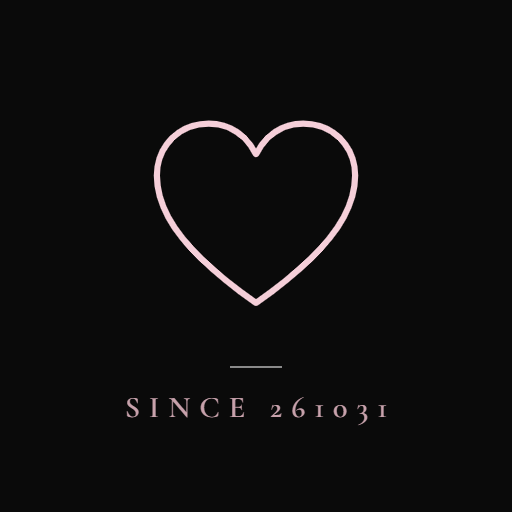
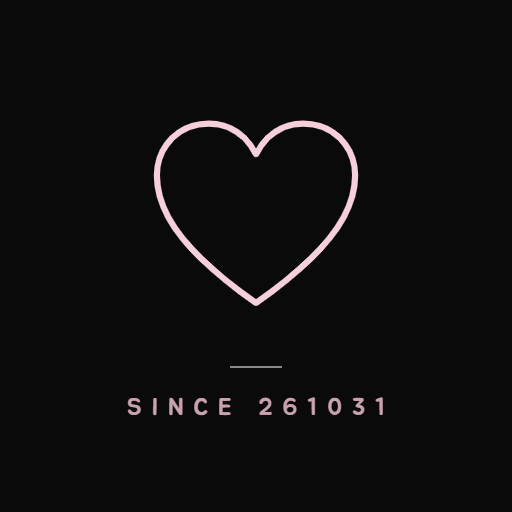
feat: 앱 글꼴을 주아와 고운돋움으로 바꾸기 (#144)
시안 비교에서 고른 B안을 적용한다. 제목, 숫자, 영문 표기, 탭, 주요 버튼은 주아, 본문과 작은 글자는 고운돋움을 쓴다.

두 글꼴 모두 굵기가 하나뿐이라 굵기 클래스를 없애고 font-synthesis: none으로 가짜 굵기를 막는다. 앞으로 굵기 클래스가 들어오지 않게 소스 검사로 고정한다.

SINCE 문구가 들어간 시작 이미지, 링크 미리보기, 앱 아이콘은 하트와 선을 그대로 둔 채 문구만 새 글꼴로 다시 그렸다.

Changed region(s): [[0.5, 0.75, 0.75, 0.8438], [0.25, 0.75, 0.4688, 0.8125]]

diff --git a/src/app/layout.tsx b/src/app/layout.tsx
@@ -1,23 +1,23 @@
 import type { Metadata, Viewport } from "next";
-import { Cormorant_Garamond, Noto_Sans_KR } from "next/font/google";
+import { Gowun_Dodum, Jua } from "next/font/google";
 import { HistoryReturn } from "@/components/HistoryReturn";
 import { OfflineNotice } from "@/components/OfflineNotice";
 import { SaveNotices } from "@/components/SaveNotices";
 import { SessionLostDialog } from "@/components/SessionLostDialog";
 import "./globals.css";
 
-// next/font에 한글 subset이 없어 미리 불러오지 않는다. 브라우저가 필요한 글자 범위만 받는다.
-const notoSansKr = Noto_Sans_KR({
-  weight: "variable",
-  variable: "--font-noto-sans-kr",
+// 본문, 설명, 입력 칸, 작은 글자용. next/font에 한글 subset이 없어 미리 불러오지 않는다. 브라우저가 필요한 글자 범위만 받는다.
+const gowunDodum = Gowun_Dodum({
+  weight: "400",
+  variable: "--font-gowun-dodum",
   preload: false,
 });
 
-// 영문·숫자 표기(SINCE, DAYS, 연·월)용
-const cormorantGaramond = Cormorant_Garamond({
-  weight: ["500", "600"],
+// 제목, 숫자, 영문 표기(SINCE, DAYS, 연·월), 탭, 주요 버튼용. 미리 불러오는 것은 영문·숫자 범위뿐이고 한글은 필요한 범위만 받는다
+const jua = Jua({
+  weight: "400",
   subsets: ["latin"],
-  variable: "--font-cormorant",
+  variable: "--font-jua",
 });
 
 // globals.css의 --color-background와 같은 값. CSS 파일을 받기 전에 쓰는 곳이라 CSS 변수를 쓸 수 없다
@@ -35,7 +35,7 @@ export const metadata: Metadata = {
     // 아이폰은 manifest의 배경색으로 시작 화면을 만들지 않아, 이미지가 없으면 켤 때 하얀 화면이 나온다(#119).
     // 기기 화면과 크기가 정확히 맞아야 쓰이므로 대상 기기마다 하나씩 둔다. 세로로만 쓰는 앱이라 세로 이미지만 둔다.
     // 이미 홈 화면에 추가한 앱은 지우고 다시 추가해야 바뀔 수 있다.
-    // 이미지는 로그인 화면의 로고를 찍은 것이라 ANNIVERSARY_DATE나 로고를 바꾸면 다시 그린다
+    // 이미지는 로그인 화면의 로고를 찍은 것이라 ANNIVERSARY_DATE, 로고, 글꼴을 바꾸면 다시 그린다
     startupImage: [
       {
         url: "/startup/iphone-15-pro.png",
@@ -62,7 +62,7 @@ const RootLayout = ({ children }: LayoutProps<"/">) => (
   // 시작 이미지가 사라진 뒤 CSS가 오기 전에도 흰 화면이 보이지 않게 배경색을 HTML에 직접 넣는다(#121)
   <html
     lang="ko"
-    className={`${notoSansKr.variable} ${cormorantGaramond.variable} h-full antialiased`}
+    className={`${gowunDodum.variable} ${jua.variable} h-full antialiased`}
     style={{ backgroundColor: APP_BACKGROUND_COLOR }}
   >
     <body className="min-h-full bg-background font-sans text-ink">

diff --git a/src/app/typography.test.ts b/src/app/typography.test.ts
@@ -1,0 +1,37 @@
+import { describe, expect, it } from "vitest";
+import { readSource, readSourceLines } from "@/test-utils/source";
+
+// 주아와 고운돋움은 굵기가 하나뿐이다(#134). 굵게 지정하면 브라우저가 획을 두껍게 뭉갠 가짜 굵기를 그린다.
+// Vitest(node)로는 글자 모양을 잴 수 없어 소스 규칙으로 고정한다.
+
+// 루트 레이아웃까지 실패했을 때의 최후의 화면은 웹 글꼴 없이 진짜 굵기가 있는 시스템 글꼴로 그린다(#83)
+const GLOBAL_ERROR = "app/global-error.tsx";
+
+describe("글꼴", () => {
+  it("제목·숫자는 주아, 본문은 고운돋움으로 불러온다", () => {
+    const layout = readSource("app/layout.tsx");
+    const css = readSource("app/globals.css");
+
+    expect(layout).toMatch(/import \{ Gowun_Dodum, Jua \} from "next\/font\/google"/);
+    // html에 변수를 넣지 않으면 글꼴 변수가 정의되지 않아 모든 글자가 시스템 글꼴로 떨어진다
+    expect(layout).toMatch(/className=\{`\$\{gowunDodum\.variable\} \$\{jua\.variable\} /);
+    expect(css).toMatch(/--font-sans: var\(--font-gowun-dodum\)/);
+    expect(css).toMatch(/--font-display: var\(--font-jua\)/);
+  });
+
+  it("브라우저가 가짜 굵기를 만들지 않게 막는다", () => {
+    expect(readSource("app/globals.css")).toMatch(/\bhtml\s*\{[^}]*\bfont-synthesis: none;/);
+  });
+
+  it("화면 코드에 굵기 클래스를 적지 않는다", () => {
+    const weighted = readSourceLines().flatMap(({ at, lines }) =>
+      at === GLOBAL_ERROR
+        ? []
+        : lines.flatMap((line, index) =>
+            /(?<![\w-])font-(?:thin|extralight|light|medium|semibold|bold|extrabold|black|\[\d+\])(?![\w-])|font-weight|fontWeight/.test(line) ? [`${at}:${index + 1}`] : [],
+          ),
+    );
+
+    expect(weighted).toEqual([]);
+  });
+});

diff --git a/src/components/home/CouplePhoto.tsx b/src/components/home/CouplePhoto.tsx
@@ -215,7 +215,7 @@ export const CouplePhoto = ({ photoUrl }: CouplePhotoProps): ReactElement => {
       >
         {isConfirmingClear ? (
           <>
-            <h2 id={titleId} className="text-[17px] font-bold">
+            <h2 id={titleId} className="font-display text-[17px]">
               커플 사진을 지울까요?
             </h2>
             <p id={descriptionId} className="mt-2 text-[14px] leading-[1.6] text-ink-sub">
@@ -241,7 +241,7 @@ export const CouplePhoto = ({ photoUrl }: CouplePhotoProps): ReactElement => {
                 type="button"
                 disabled={task === "clear"}
                 onClick={handleClear}
-                className="h-12 flex-1 rounded-[10px] bg-accent text-[15px] font-bold text-background disabled:opacity-50"
+                className="h-12 flex-1 rounded-[10px] bg-accent font-display text-[15px] text-background disabled:opacity-50"
               >
                 {task === "clear" ? "지우는 중…" : "지우기"}
               </button>
@@ -249,7 +249,7 @@ export const CouplePhoto = ({ photoUrl }: CouplePhotoProps): ReactElement => {
           </>
         ) : (
           <>
-            <h2 id={titleId} className="text-[17px] font-bold">
+            <h2 id={titleId} className="font-display text-[17px]">
               커플 사진
             </h2>
             <div className="mt-4 flex flex-col gap-2">

diff --git a/src/components/home/LatestRecordCard.tsx b/src/components/home/LatestRecordCard.tsx
@@ -17,7 +17,7 @@ export const LatestRecordCard = ({ record }: LatestRecordCardProps): ReactElemen
       {/* 링크 위에 떠 있지만 눌러도 칸을 누른 것으로 친다 */}
       <h2
         id={titleId}
-        className="pointer-events-none absolute top-2.5 left-2.5 z-10 rounded-full bg-background/70 px-[9px] py-[3px] text-[11px] leading-4 text-ink"
+        className="pointer-events-none absolute top-2.5 left-2.5 z-10 rounded-full bg-background/70 px-[9px] py-[3px] font-display text-[11px] leading-4 text-ink"
       >
         최근 데이트
       </h2>
@@ -28,7 +28,7 @@ export const LatestRecordCard = ({ record }: LatestRecordCardProps): ReactElemen
         )}
         {/* 흰 사진 위에서도 두 줄 제목 윗줄까지 글자가 읽히도록(명암비 4.5:1) 글자 높이까지 진하게 깐다 */}
         <span className="absolute inset-x-0 bottom-0 flex flex-col gap-0.5 bg-gradient-to-t from-background/90 via-background/70 via-60% to-transparent px-3 pt-9 pb-3">
-          <span className="line-clamp-2 text-[15px] leading-5 font-bold text-ink">{record.title}</span>
+          <span className="line-clamp-2 font-display text-[15px] leading-5 text-ink">{record.title}</span>
           <span className="truncate text-[12px] leading-4 text-ink/80">
             {formatRecordShortDate(record)}
             {record.place && ` · ${record.place}`}

diff --git a/src/components/home/DdayHeader.tsx b/src/components/home/DdayHeader.tsx
@@ -11,11 +11,11 @@ export const DdayHeader = ({ days }: DdayHeaderProps): ReactElement => (
   <section>
     <h2 className="sr-only">함께한 지 {days}일째</h2>
     <div aria-hidden="true" className="flex items-baseline justify-center gap-3">
-      {/* 숫자는 모양마다 높이가 달라 변하지 않는 글자 아랫선에 맞춘다. 이미지 아래 여백(3.6px)만큼 내려 그려진 선을 맞춘다 */}
+      {/* 글자 아랫선에 맞춘다. 이미지 아래 여백(3.6px)만큼 내려 그려진 선을 맞춘다 */}
       <HeartLogo className="size-[30px] translate-y-[3.6px] text-highlight" strokeWidth={4} />
-      <p className="font-display text-[52px] leading-none font-medium text-highlight">{days}</p>
+      <p className="font-display text-[52px] leading-none text-highlight">{days}</p>
       {/* letter-spacing이 마지막 글자 뒤에도 붙어 가운데가 왼쪽으로 쏠리므로 그만큼 오른쪽 자리를 없앤다 */}
-      <p className="-mr-1 font-display text-[12px] font-semibold tracking-[4px] text-ink-sub">DAYS</p>
+      <p className="-mr-1 font-display text-[12px] tracking-[4px] text-ink-sub">DAYS</p>
     </div>
   </section>
 );

diff --git a/src/components/calendar/CalendarView.tsx b/src/components/calendar/CalendarView.tsx
@@ -63,7 +63,7 @@ export const CalendarView = ({ month, today, requestedDate, events, records }: C
   return (
     <div className="flex flex-col px-4 pb-6">
       <div className="flex items-center justify-between pt-2">
-        <h2 aria-live="polite" className="px-0.5 font-display text-[20px] font-semibold tracking-[3px] text-label">
+        <h2 aria-live="polite" className="px-0.5 font-display text-[20px] tracking-[3px] text-label">
           {formatMonthTitle(month)}
         </h2>
         <div className="-mr-3 flex items-center">
@@ -161,7 +161,7 @@ export const CalendarView = ({ month, today, requestedDate, events, records }: C
       <section aria-labelledby="selected-day" className="mt-4 flex flex-col">
         <div className="flex items-center justify-between">
           <div className="flex flex-col">
-            <h3 id="selected-day" className="text-[15px] font-bold text-ink">
+            <h3 id="selected-day" className="font-display text-[15px] text-ink">
               {formatDayHeading(selectedDate)}
             </h3>
             {selectedDate >= ANNIVERSARY_DATE && (

diff --git a/src/components/dates/DateRecordForm.tsx b/src/components/dates/DateRecordForm.tsx
@@ -404,7 +404,7 @@ export const DateRecordForm = ({ record, prefill }: DateRecordFormProps): ReactE
             <button
               type="button"
               onClick={handleGoToRecords}
-              className="h-[52px] w-full rounded-[10px] bg-accent text-[15px] font-bold text-background"
+              className="h-[52px] w-full rounded-[10px] bg-accent font-display text-[15px] text-background"
             >
               기록 목록으로
             </button>
@@ -412,7 +412,7 @@ export const DateRecordForm = ({ record, prefill }: DateRecordFormProps): ReactE
             <button
               type="submit"
               disabled={isSaving}
-              className="h-[52px] w-full rounded-[10px] bg-accent text-[15px] font-bold text-background disabled:opacity-50"
+              className="h-[52px] w-full rounded-[10px] bg-accent font-display text-[15px] text-background disabled:opacity-50"
             >
               {progress ? toProgressLabel(progress) : isSaving ? "저장 중…" : "저장"}
             </button>

diff --git a/src/components/SessionLostDialog.tsx b/src/components/SessionLostDialog.tsx
@@ -94,7 +94,7 @@ const SessionLostForm = ({ isPending, onPendingChange, onClose }: SessionLostFor
         <button
           type="submit"
           disabled={isPending}
-          className="h-12 flex-1 rounded-[10px] bg-accent text-[15px] font-bold text-background disabled:opacity-50"
+          className="h-12 flex-1 rounded-[10px] bg-accent font-display text-[15px] text-background disabled:opacity-50"
         >
           {isPending ? "확인 중…" : "로그인"}
         </button>
@@ -142,7 +142,7 @@ export const SessionLostDialog = (): ReactElement => {
       onClose={() => setIsOpen(false)}
       className="m-auto w-[calc(100%-32px)] max-w-[360px] rounded-[14px] border border-line bg-surface p-5 text-ink backdrop:bg-background/70"
     >
-      <h2 id={titleId} className="text-[17px] font-bold">
+      <h2 id={titleId} className="font-display text-[17px]">
         다시 로그인해 주세요
       </h2>
       <p id={descriptionId} className="mt-2 text-[14px] leading-[1.6] text-ink-sub">

diff --git a/src/components/SaveNotices.tsx b/src/components/SaveNotices.tsx
@@ -27,11 +27,11 @@ const SaveNoticeItem = ({ notice }: { notice: SaveNotice }): ReactElement => {
       className="pointer-events-auto flex items-center rounded-[10px] border border-line bg-surface py-1 pr-1 pl-4 text-ink shadow-lg"
     >
       <div className="min-w-0 flex-1 py-1">
-        <p className={`text-[14px] ${isFailure ? "font-bold text-accent" : ""}`}>{title}</p>
+        <p className={`text-[14px] ${isFailure ? "font-display text-accent" : ""}`}>{title}</p>
         {description && <p className="mt-0.5 text-[12px] text-ink-sub">{description}</p>}
       </div>
       {href && (
-        <Link href={href} transitionTypes={FORWARD_TRANSITION} onClick={dismiss} className="flex h-11 shrink-0 items-center px-3 text-[14px] font-bold text-accent">
+        <Link href={href} transitionTypes={FORWARD_TRANSITION} onClick={dismiss} className="flex h-11 shrink-0 items-center px-3 font-display text-[14px] text-accent">
           {isFailure ? "돌아가기" : "보기"}
         </Link>
       )}

diff --git a/src/components/ConfirmDeleteButton.tsx b/src/components/ConfirmDeleteButton.tsx
@@ -62,7 +62,7 @@ export const ConfirmDeleteButton = ({
         }}
         className="m-auto w-[calc(100%-32px)] max-w-[360px] rounded-[14px] border border-line bg-surface p-5 text-ink backdrop:bg-background/70"
       >
-        <h2 id={titleId} className="text-[17px] font-bold">
+        <h2 id={titleId} className="font-display text-[17px]">
           {title}
         </h2>
         <p id={descriptionId} className="mt-2 text-[14px] leading-[1.6] text-ink-sub">
@@ -86,7 +86,7 @@ export const ConfirmDeleteButton = ({
             type="button"
             disabled={isDeleting}
             onClick={handleConfirm}
-            className="h-12 flex-1 rounded-[10px] bg-accent text-[15px] font-bold text-background disabled:opacity-50"
+            className="h-12 flex-1 rounded-[10px] bg-accent font-display text-[15px] text-background disabled:opacity-50"
           >
             {isDeleting ? "지우는 중…" : "삭제"}
           </button>

diff --git a/src/app/globals.css b/src/app/globals.css
@@ -14,12 +14,17 @@
   --color-label: #c8a2ac;
   /* 한 사람 일정 형광펜(함께 일정은 highlight 분홍) */
   --color-cream: #f3e6c8;
-  --font-sans: var(--font-noto-sans-kr), -apple-system, BlinkMacSystemFont, "Apple SD Gothic Neo", sans-serif;
-  --font-display: var(--font-cormorant), "Times New Roman", serif;
+  --font-sans: var(--font-gowun-dodum), -apple-system, BlinkMacSystemFont, "Apple SD Gothic Neo", sans-serif;
+  --font-display: var(--font-jua), -apple-system, BlinkMacSystemFont, "Apple SD Gothic Neo", sans-serif;
 }
 
 :root {
   color-scheme: dark;
+}
+
+/* 두 글꼴 모두 굵기가 하나뿐이다. 강조는 굵기 대신 font-display(주아)로 하고, 굵게 지정돼도 획을 뭉개 그리지 않게 한다(#134) */
+html {
+  font-synthesis: none;
 }
 
 /*

diff --git a/src/components/tabs/TabBar.tsx b/src/components/tabs/TabBar.tsx
@@ -55,7 +55,7 @@ export const TabBar = ({ current }: TabBarProps): ReactElement => (
               transitionTypes={TAB_TRANSITION}
               aria-current={isCurrent ? "page" : undefined}
               onClick={isCurrent ? (event) => handleCurrentTabClick(event, tab, href) : undefined}
-              className={`flex flex-1 flex-col items-center justify-center gap-1 text-[11px] ${isCurrent ? "text-highlight" : "text-ink-sub"}`}
+              className={`flex flex-1 flex-col items-center justify-center gap-1 font-display text-[11px] ${isCurrent ? "text-highlight" : "text-ink-sub"}`}
             >
               <Icon className="size-[22px]" />
               {label}
